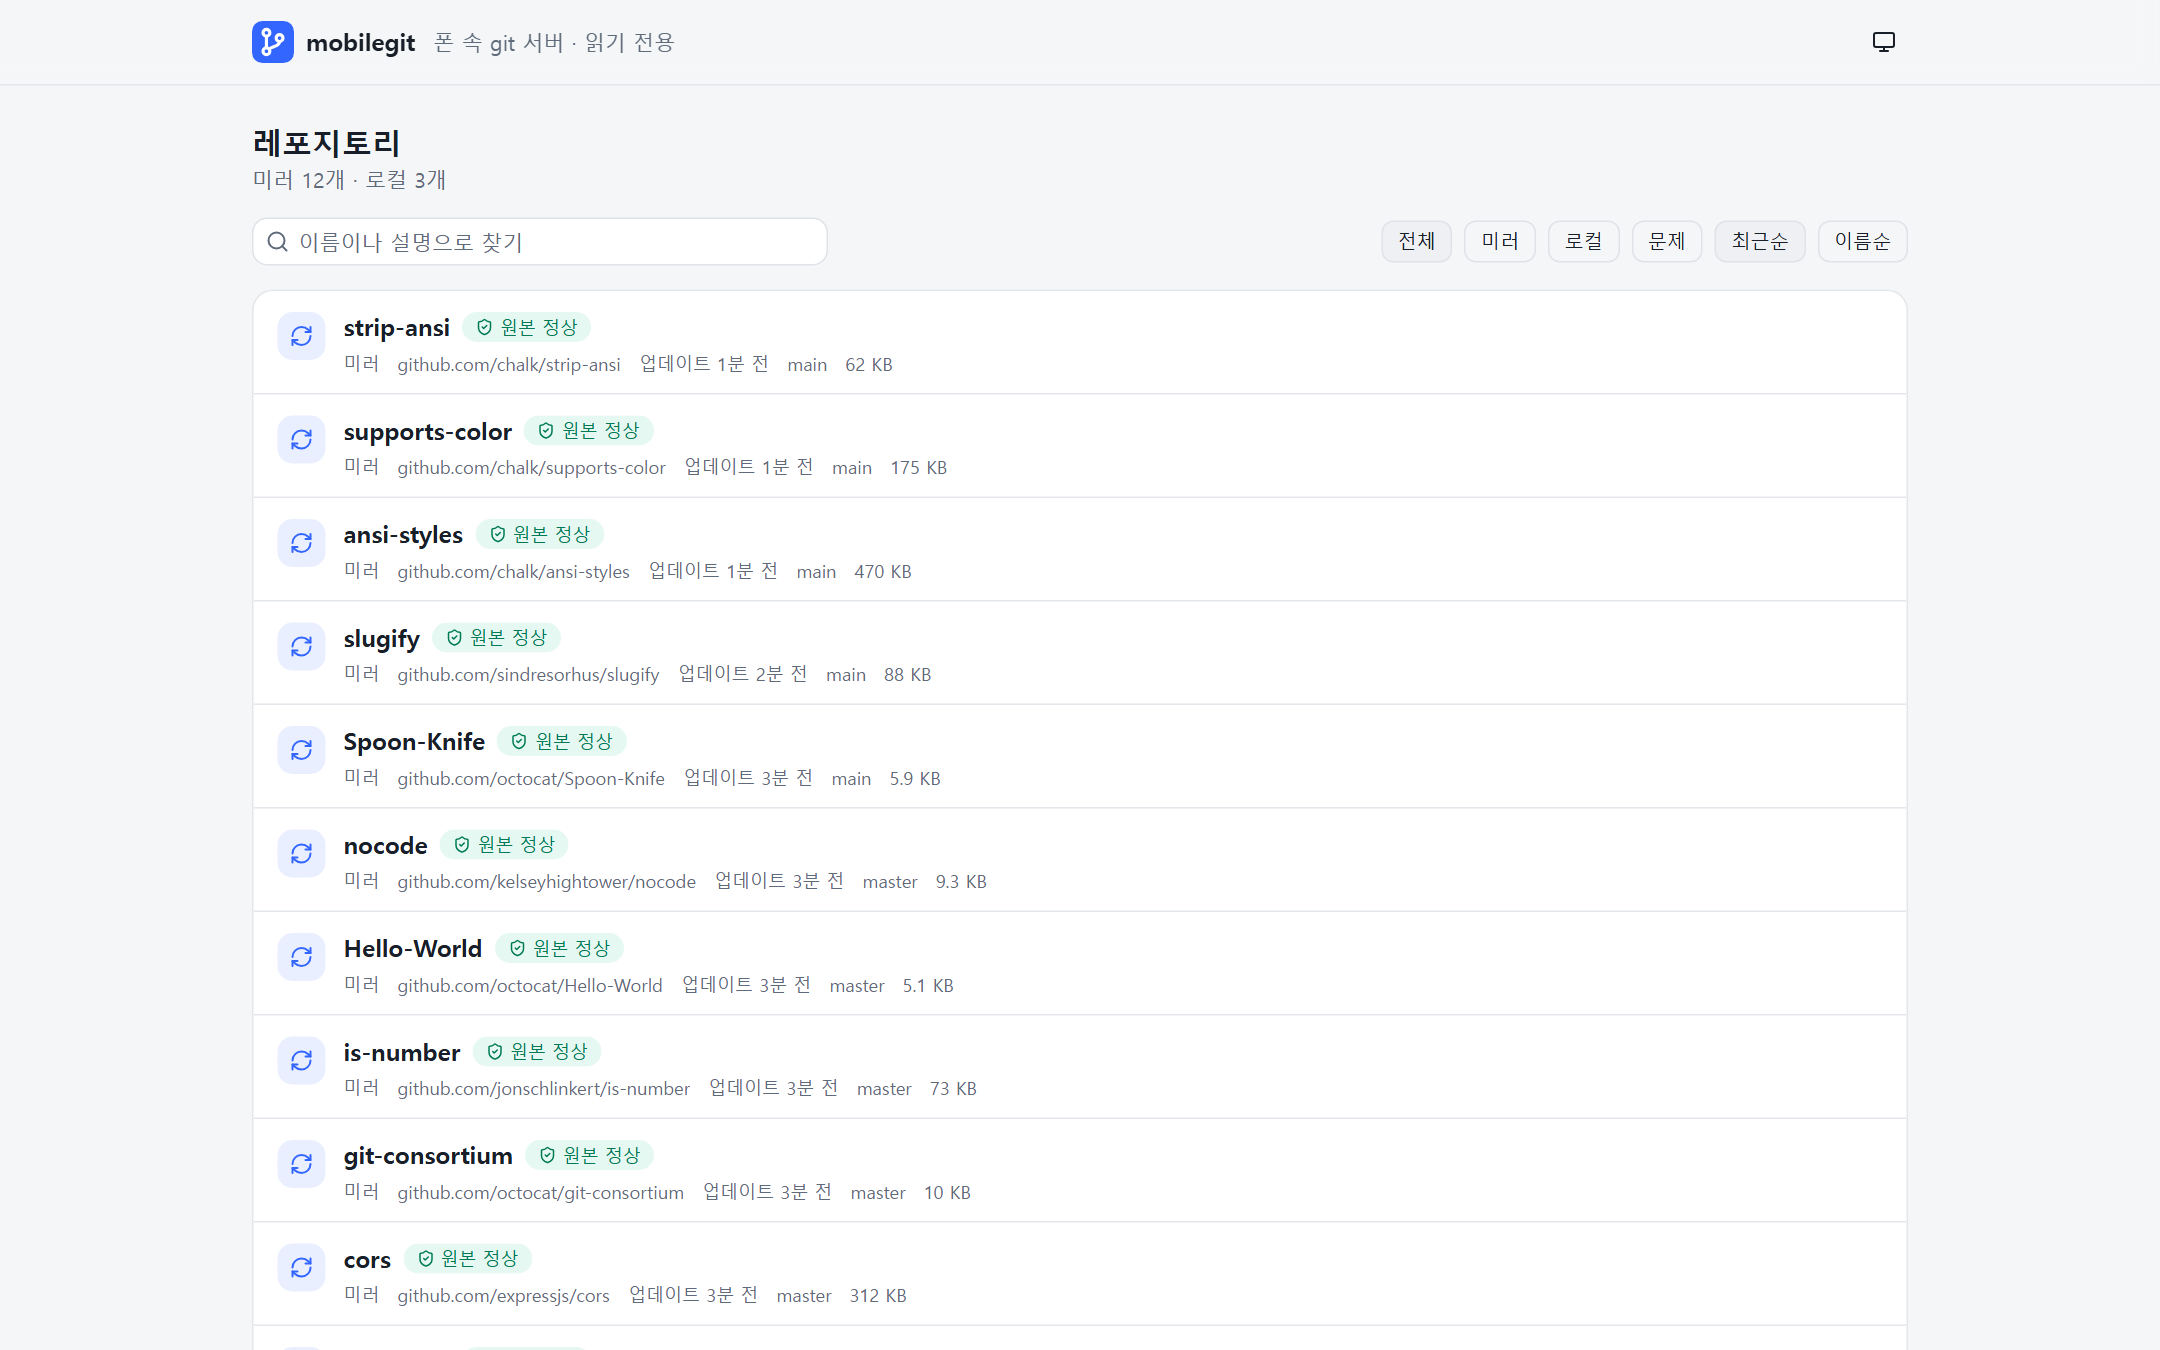
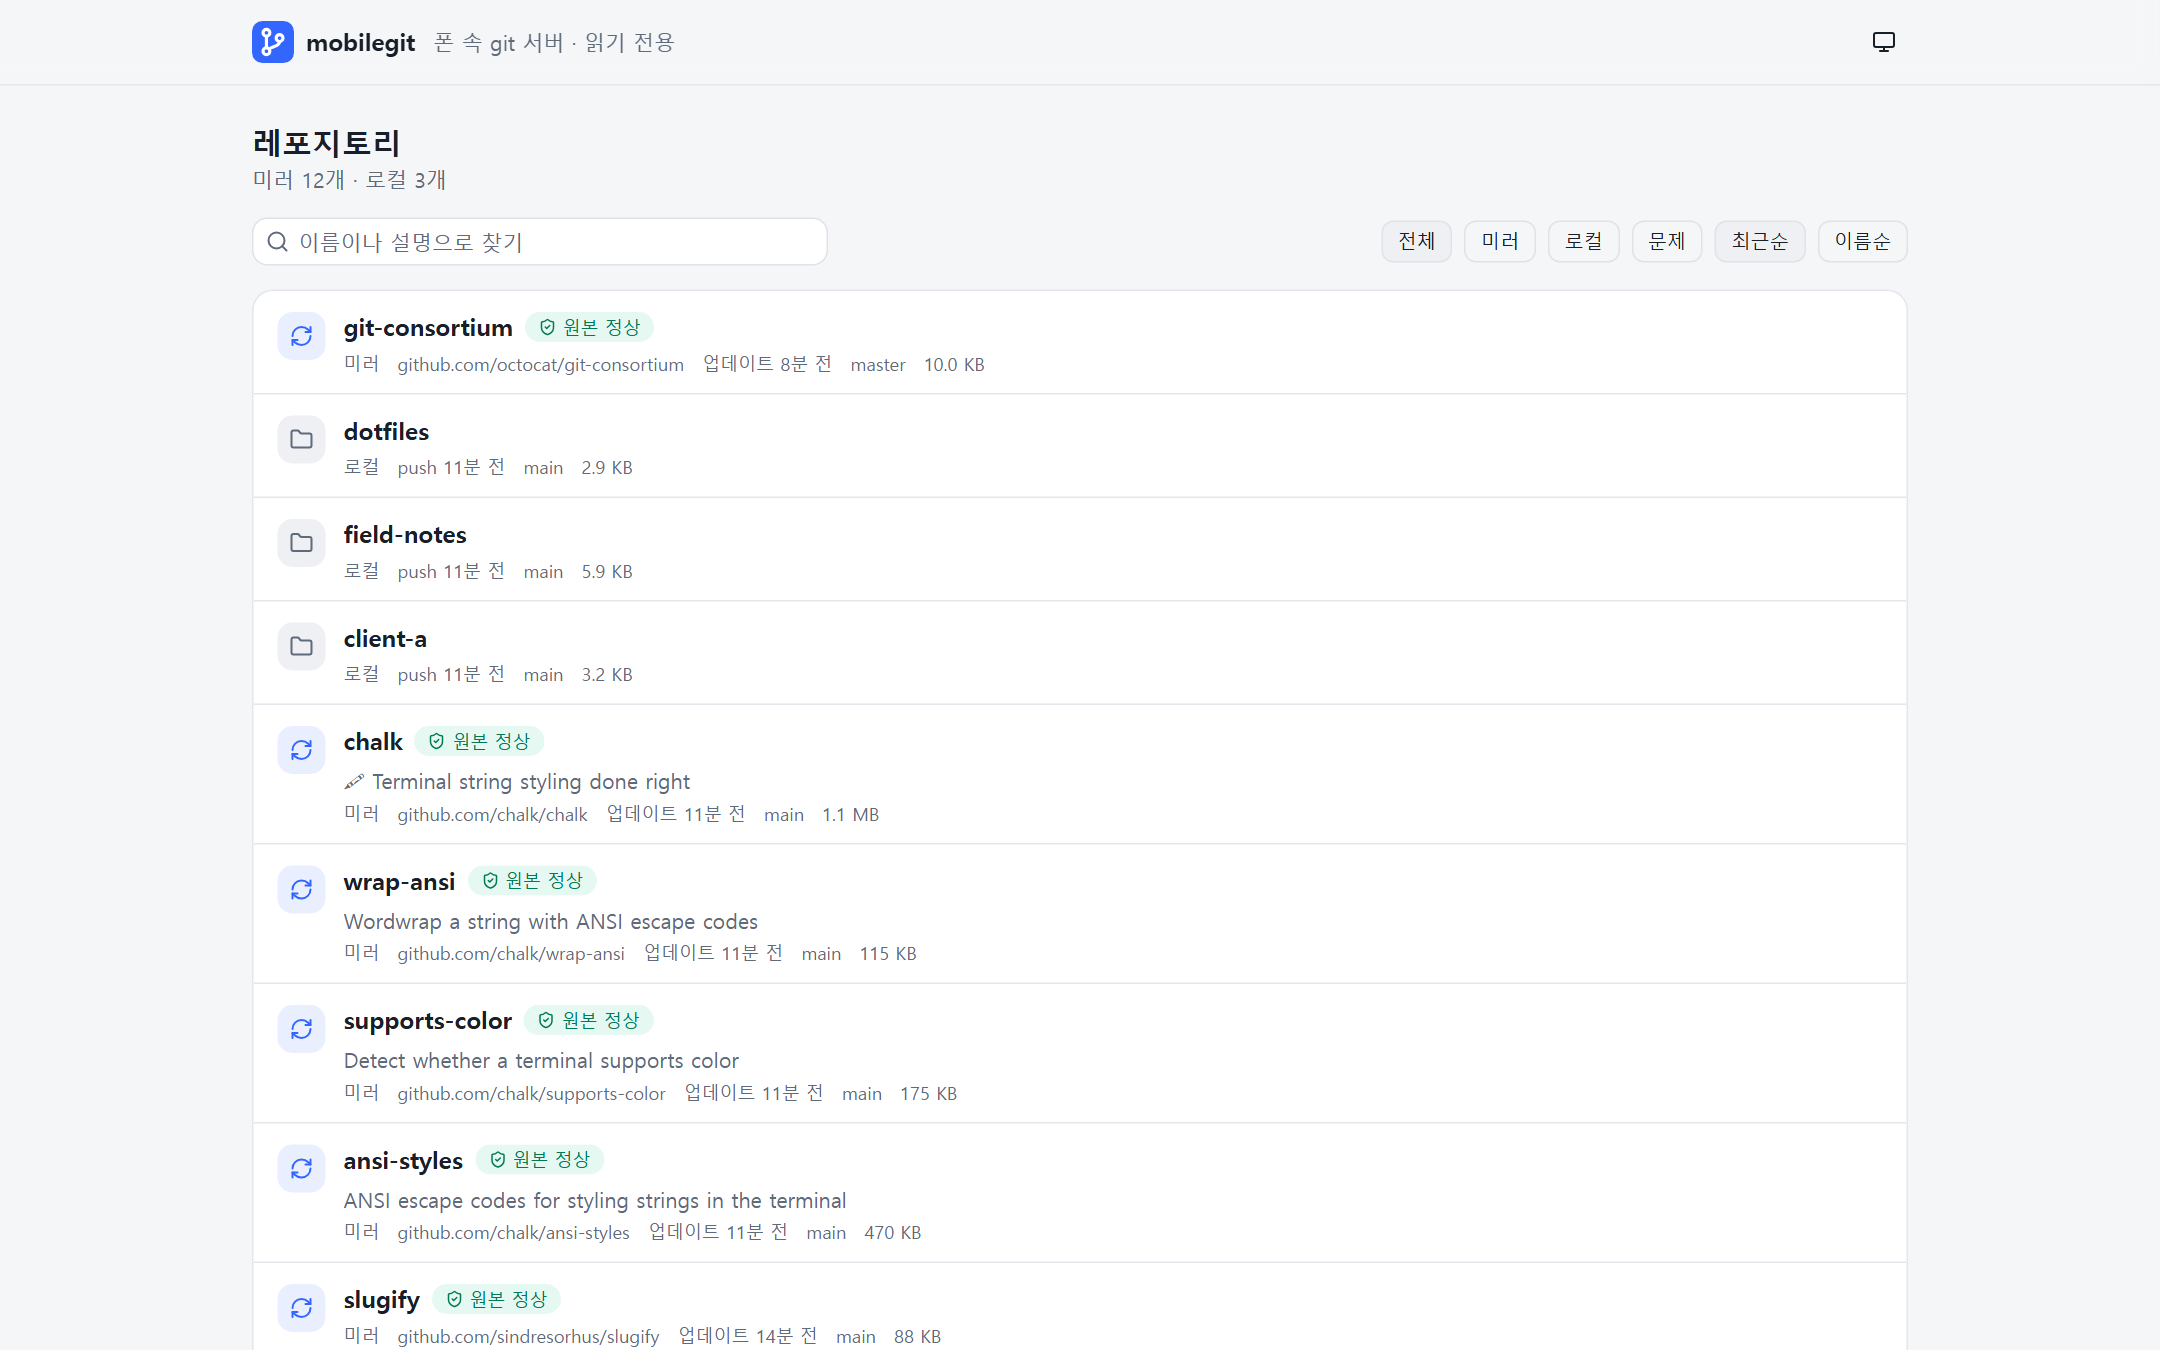
qa: round 1 re-verification (12 fixes confirmed, 2 new issues) and retaken screenshots

Changed region(s): [[0.1241, 0.3111, 0.4343, 1.0], [0.1551, 0.2178, 0.4343, 0.28]]

diff --git a/docs/qa/round1/report.md b/docs/qa/round1/report.md
@@ -168,3 +168,99 @@
 - `docs/qa/round1/screenshots/` + `README.md`
 - `docs/qa/round1/tools/` — `ui.py`, `delete_repo.sh`, `origin_server.py`, `web_check.py`, `web_shots.py`
 - `docs/qa/round1/fixtures/phone-before-cleanup-backup.zip`
+
+## 8. 재검증 (2026-10-25 12:16~12:40)
+
+- 대상: `main` `acf07cd`까지(코드 마지막 `9024c3d`). 같은 테스트폰 `d418f2d1`, 같은 PC.
+- 시작 상태: 폰 데이터가 초기화되어 `webdemo`만 있었다. 웹 개발자가 정한 테스트 비밀번호를 그대로 썼다(저장소에 없음).
+- 데이터 다시 준비:
+  - 미러 12개: 공유 시트로 8개를 한 번에 추가해 8/8 완료, GitHub 조직 `chalk` 일괄 미러로 4개 추가해 4/4 완료.
+  - 로컬 레포 3개(`field-notes`, `dotfiles`, `client-a`): PC에서 push.
+  - 확인용 레포(`a..b`, `lfs-check`, `qa-edge`, `Spoon-Knife-local`)와 `webdemo`는 지웠다.
+- 정리 상태:
+  - 서버 켜짐(8080, 인증 켜짐). ngrok은 꺼짐, 토큰 없음.
+  - 라이트 모드.
+  - `부팅 후 서버 자동 시작`은 초기화되어 꺼져 있다.
+
+### 8.1 문제별 결과
+
+| ID | 결과 | 확인 내용 |
+|---|---|---|
+| QA-01 | 해결 | 폰에서 `nc -L -p 9090`으로 포트를 점유한 뒤 확인했다. (1) 서버가 켜진 채 설정에서 포트를 9090으로 저장, (2) 9090에서 스위치 켜기. 두 경로 모두 앱 프로세스가 그대로 살아 있었고(pid 같음, crash 버퍼 비어 있음), 메인에 "켤 수 없었어요 / 포트 9090 사용 중 / 다른 앱이 이 포트를 쓰고 있어요…" + "포트 바꾸기"가 나왔다. 새 문제 QA-13이 있다 |
+| QA-02 | 해결 | 서버가 켜진 채 `adb install -r` 실행. 시스템 로그에 `Background started FGS: Disallowed`, 크래시는 없었다. 6초 뒤 서버는 응답하지 않고, 알림 "mobilegit 서버가 꺼져 있어요 / 앱을 열면 서버가 다시 켜져요."가 표시됐다. 앱을 열자 첫 화면부터 "서버 켜짐", API 200, 알림은 "서버 실행 중"으로 바뀌었다. 영어 원문은 나오지 않았다. 앱 안의 "앱을 열면 서버가 다시 켜져요" 배너는 화면이 그려지기 전에 복구되어 보이지 않았고, 이 문구는 알림에서 확인했다 |
+| QA-03 | 해결 | 공유 시트로 `…/Spoon-Knife/tree/main/styles` → "이미 미러됨 / Spoon-Knife 레포로 이미 보존 중이에요" + "기존 레포로 이동" → Spoon-Knife 상세로 이동 |
+| QA-04 | 해결 | 웹 `/r/chalk` README에 태그가 글자로 나오지 않는다. `<h1 align="center">`, `<img width="320">`이 HTML로 렌더된다. 외부 배지는 "[외부 이미지: …]" 링크로 바뀌었다. 회귀 픽스처(`<script>`, `onerror`, `style`, `javascript:` 링크)에서 대화상자 0건, script/onerror 없음. `javascript:`는 HTML 블록 안의 글자로만 남고 링크가 아니다. 로고 SVG는 표시되지 않는다(새 문제 QA-14) |
+| QA-05 | 해결 | git-lfs 3.7.1로 push하면 `batch response: LFS: mobilegit은 Git LFS 파일을 저장하지 않습니다 … GIT_LFS_SKIP_PUSH=1 로 push 하세요 (bash…, PowerShell…)`가 표시되고, 안내대로 하면 push 성공. 앱 상세 LFS 카드에 같은 명령이 나온다 |
+| QA-06 | 해결 | Spoon-Knife → 새 로컬 레포로 복제 → `Spoon-Knife-local` 상세에 빈 레포 카드가 없다. "분리 원본: URL, 시각"이 표시된다 |
+| QA-07 | 해결 | 가짜 authtoken → 외부 접속 켜기 → 배너 "외부 공개 실패 (ngrok) / ngrok이 토큰을 거부했어요. 설정에서 authtoken을 확인하세요". "자세히"를 누르면 원문(ERR_NGROK_105)이 빈 줄 없이 나온다. 설정 부제도 한국어 한 줄 |
+| QA-08 | 해결 | 이름마다 사유가 나온다. `-bad`: "영문이나 숫자로 시작해야 합니다". `x.git.git`: ".git으로 끝날 수 없습니다". `foo%20bar`: "허용되지 않는 문자: 공백". 101자: "100자 이하여야 합니다 (지금 101자)". `a..b`는 PRD 6.1 정규식에 맞아 레포가 만들어졌다(아래 관찰 참고) |
+| QA-09 | 해결 | 일괄 미러로 등록한 `chalk`, `ansi-styles`, `supports-color`, `wrap-ansi`는 `/api/v1/repos`와 W-01에 설명이 나온다. URL로 추가한 미러는 설명이 비어 있다(spec대로) |
+| QA-10 | 해결 | 미러 추가 화면에서 "남은 공간 97.6 GB"가 추가 버튼 바로 위에 보인다(`02-add-mirror.png`) |
+| QA-11 | 해결 | Clone 카드 URL과 명령이 줄바꿈되어 전체가 보인다(`10-web-repo-home.png`, 1440px) |
+| QA-12 | 해결 | 온보딩 다시 보기 3장의 복사 버튼 설명이 "사용자 이름 복사"다. FAB 접근성(TalkBack)은 여전히 확인하지 않았다 |
+
+### 8.2 새로 발견한 문제
+
+| ID | 심각도 | 담당 | 제목 |
+|---|---|---|---|
+| QA-13 | 낮음 | 코어 | 포트를 바꾼 뒤에도 이전 "포트 9090 사용 중" 실패 배너가 남는다 |
+| QA-14 | 중간 | 코어 | README의 SVG 이미지가 깨진다(raw API가 SVG를 `application/octet-stream`으로 보냄) |
+
+#### QA-13 포트를 바꿔도 이전 포트 실패 배너가 남는다 (낮음, 코어)
+- 재현:
+  1. 9090 점유 상태에서 포트를 9090으로 저장해 "포트 9090 사용 중"이 뜨게 한다.
+  2. 메인의 "포트 바꾸기" → 8080으로 저장 → 메인으로 돌아온다.
+- 기대: 포트를 바꾸면 이전 실패 상태가 지워진다. 서버가 꺼져 있으면 보통의 "서버 꺼짐" 안내만 보인다.
+- 실제: 와이파이 주소는 `192.168.31.120:8080`으로 바뀌었는데, 배너는 "켤 수 없었어요 / 포트 9090 사용 중 / 다른 앱이 이 포트를 쓰고 있어요…" 그대로다. 스위치를 켜면 정상으로 켜지고 배너가 사라진다.
+- 참고: 포트 저장 후 서버가 꺼진 상태라 재시작하지 않는다. 그래서 `ServerState.Failed(PORT_IN_USE)`가 그대로 남는다. 설정이 바뀌면 Failed를 Stopped로 돌리면 된다.
+
+#### QA-14 README SVG 이미지가 깨진다 (중간, 코어)
+- 재현: 웹 `/r/chalk` README. 맨 위 로고가 `<img src="media/logo.svg">`이다.
+- 기대: 로고가 보인다(PNG 상대 이미지는 보인다).
+- 실제:
+  - 깨진 이미지 아이콘과 alt 글자 "Chalk"만 보인다.
+  - `GET /api/v1/repos/chalk/raw?path=media%2Flogo.svg` 응답이 `Content-Type: application/octet-stream`, `Content-Disposition: attachment`, `nosniff`다. 브라우저는 이 SVG를 이미지로 그리지 않는다.
+  - 로고와 다이어그램을 SVG로 두는 README가 많다. QA-04를 고친 뒤 처음 드러났다.
+- 제안:
+  - 이미지 확장자(svg, png, jpg, gif, webp)는 raw API가 알맞은 이미지 Content-Type으로 응답하게 한다.
+  - SVG는 `Content-Security-Policy: sandbox; default-src 'none'; style-src 'unsafe-inline'`를 함께 붙여, 직접 열어도 스크립트가 돌지 않게 한다.
+
+#### 관찰 (문제로 올리지 않음)
+- `a..b.git` push가 1차에서는 거부됐지만, 이번에는 레포가 만들어졌다. PRD 6.1 정규식 `^[A-Za-z0-9][A-Za-z0-9._-]{0,99}$`에 맞으므로 규칙대로다. 1차 QA-08 재현 목록에서 이 이름은 빼야 한다.
+- 데이터가 초기화되어 메인에 "배터리 최적화 해제 필요" 칩이 다시 보인다(앱을 다시 설치하면 예외가 풀림). 스크린샷은 이 상태로 찍었다.
+- 일괄 미러 목록에서 하단 고정 바 바로 위 항목을 누르면 탭이 바에 막힐 때가 있다(스크롤하면 됨).
+
+### 8.3 기능별 판정 변경
+
+| 기능 | 1차 | 재검증 | 이유 |
+|---|---|---|---|
+| F-01 | 실패 | **통과** | AC3 해결(QA-01). AC7 앱 업데이트는 OS가 백그라운드 시작을 막지만, 알림으로 안내하고 앱을 열면 바로 복구된다(QA-02). 사용자가 앱을 열어야 하는 것은 Android 제약이다 |
+| F-06 | 실패 | **부분** | AC8 해결(QA-03). AC5(첫 받기 실패), AC9(공간 부족)는 여전히 미확인 |
+| F-13 | 부분 | **통과** | AC2 사유 표시(QA-08), LFS push 안내(QA-05) |
+| F-18 | 부분 | 부분 | QA-04, QA-11 해결. 새 QA-14(SVG 이미지) 때문에 부분 유지 |
+| F-20 | 부분 | **통과** | QA-06 해결. 1차에서 미확인이던 (a) 전환을 확인했다. `git-consortium`을 로컬로 전환하자 type LOCAL, `forkedFromUrl` 기록, PC push 성공. 확인한 뒤 지우고 다시 미러로 추가했다 |
+| F-02, F-12, F-15 | 부분 | 부분 | 이번 수정과 관계없음 |
+| F-04, F-10 | 확인 불가 | 확인 불가 | 토큰 없음으로 확인 불가 / 주기 작업 강제 실행 불가. QA-07 표시는 해결 |
+
+재검증 후 합계: 통과 18, 부분 5(F-02, F-06, F-12, F-15, F-18), 실패 0, 확인 불가 2.
+
+### 8.4 회귀 확인 (주요 흐름)
+
+- 인증 없이 info/refs 401. clone(awesome) 성공. pull 성공.
+- 미러 push는 읽기 전용 메시지로 거부.
+- push로 레포 생성(로컬 3개).
+- 여러 줄 미러 추가 8/8, 조직 일괄 미러 4/4, 이미 등록된 레포는 `등록됨`.
+- 분리(복제·전환) 동작, 앱 UI로 레포 삭제 6회.
+- 웹 확인(`tools/web_check.py`):
+  - 1.1MB와 바이너리 파일은 "표시할 수 없어요" + 다운로드, LFS 포인터 표시, 한글·공백 경로.
+  - 커밋 50개씩 두 페이지, 404 화면.
+  - 외부 요청 0건, CSP 그대로, raw 응답 헤더 그대로.
+  - 경로 조작은 400/404, 390px에서 가로 스크롤 없음.
+  - 콘솔 오류는 픽스처의 깨진 이미지 404뿐.
+- 다크 모드 메인과 웹 화면은 깨지지 않았다.
+- 테스트 중 crash 버퍼에 기록이 없었다.
+- 확인하지 못한 것은 5절과 같다. QA-02의 앱 안 안내 배너는 볼 수 없었고, 같은 문구를 알림에서 확인했다.
+
+### 8.5 스크린샷
+
+`screenshots/`의 14장을 모두 새 빌드로 다시 찍어 교체했다(라이트 12, 다크 2). 목록은 `screenshots/README.md`에서 갱신했다.

diff --git a/docs/qa/round1/screenshots/README.md b/docs/qa/round1/screenshots/README.md
@@ -1,20 +1,20 @@
 # 대표 스크린샷 (QA 1차)
 
-촬영: 2026-10-25, 테스트폰 `d418f2d1`(LineageOS, 1080x2400) + PC Chromium(Playwright, 1440x900 @1.5x). 앱 빌드는 `8af31d1`.
-데이터: 실제 공개 GitHub 레포 미러 12개(octocat, chalk 조직, sindresorhus, expressjs 등)와 PC에서 push한 로컬 레포 3개(`field-notes`, `dotfiles`, `client-a`). QA용 테스트 레포는 촬영 전에 모두 지웠다.
+촬영: 2026-10-25 (재검증 후 다시 촬영, 12:31~12:36), 테스트폰 `d418f2d1`(LineageOS, 1080x2400) + PC Chromium(Playwright, 1440x900 @1.5x). 앱 빌드는 `9024c3d`(QA 1차 수정 반영).
+데이터: 폰 데이터가 초기화되어 다시 준비했다. 실제 공개 GitHub 레포 미러 12개(octocat, chalk 조직, sindresorhus, expressjs 등)와 PC에서 push한 로컬 레포 3개(`field-notes`, `dotfiles`, `client-a`). QA용 테스트 레포와 `webdemo`는 촬영 전에 지웠다.
 
 | 파일 | 화면 |
 |---|---|
-| `01-main.png` | A-02 메인: 서버 켜짐, 와이파이 대표 주소, 배터리 칩, 레포 15개 목록(이름순) |
-| `02-add-mirror.png` | A-03 미러 추가: 공유 시트로 받은 GitHub URL, 정규화 결과, 이름 제안, 접근 가능(PR ref 제외) |
-| `03-bulk-mirror.png` | A-04 계정·조직 일괄 미러: GitHub 조직 `chalk` 목록, 3개 선택, `등록됨` 표시, 선택 크기/남은 공간 |
+| `01-main.png` | A-02 메인: 서버 켜짐, 와이파이 대표 주소, 배터리 최적화 칩, 레포 15개 목록(최근 활동순) |
+| `02-add-mirror.png` | A-03 미러 추가: 공유 시트로 받은 GitHub URL, 정규화 결과, 이름 제안, 접근 가능(PR ref 제외), 추가 버튼 위의 남은 공간(QA-10 수정) |
+| `03-bulk-mirror.png` | A-04 계정·조직 일괄 미러: GitHub 조직 `chalk` 목록, 이미 등록된 3개는 `등록됨`, 새로 2개 선택, 선택 크기/남은 공간 |
 | `04-repo-detail-mirror.png` | A-07 레포 상세(미러 `chalk`): 원본 상태 카드, 지금 업데이트/변경 확인, 자동 업데이트 제외, PR ref 옵션 |
 | `05-repo-detail-local.png` | A-07 레포 상세(로컬 `field-notes`): 기본 브랜치, 마지막 push 시각·IP, clone 주소와 명령, 관리 |
 | `06-qr.png` | A-08 QR 전체 화면: `field-notes` clone URL QR과 큰 URL 텍스트 |
 | `07-settings.png` | A-10 설정: 서버(포트, 계정, 비밀번호 재설정, 인증 끄기, 익명 읽기, 부팅 자동 시작), 연결 경로별 보안 |
 | `08-storage.png` | A-09 저장 공간: 앱 사용량, 기기 남은 공간, 하한, 전체 백업, 레포별 용량(큰 순) |
 | `09-web-repo-list.png` | W-01 웹 레포 목록: 미러/로컬, 원본 상태 배지, 원본 주소, 업데이트 시각, 용량 |
-| `10-web-repo-home.png` | W-02 웹 레포 홈(`field-notes`): 파일 트리, 최신 커밋, README(한국어 표 포함), Clone 카드, 정보 카드 |
+| `10-web-repo-home.png` | W-02 웹 레포 홈(`field-notes`): 파일 트리, 최신 커밋, README(한국어 표 포함), Clone 카드(URL 줄바꿈, QA-11 수정), 정보 카드 |
 | `11-web-file-view.png` | W-03 웹 파일 보기(`chalk/source/index.js`): 줄 번호, 구문 강조, 원본 다운로드 |
 | `12-web-commit-log.png` | W-04 웹 커밋 로그(`chalk`): 날짜별 묶음, 작성자, 상대 시각, 짧은 SHA |
 | `13-main-dark.png` | A-02 메인 (다크 모드) |
